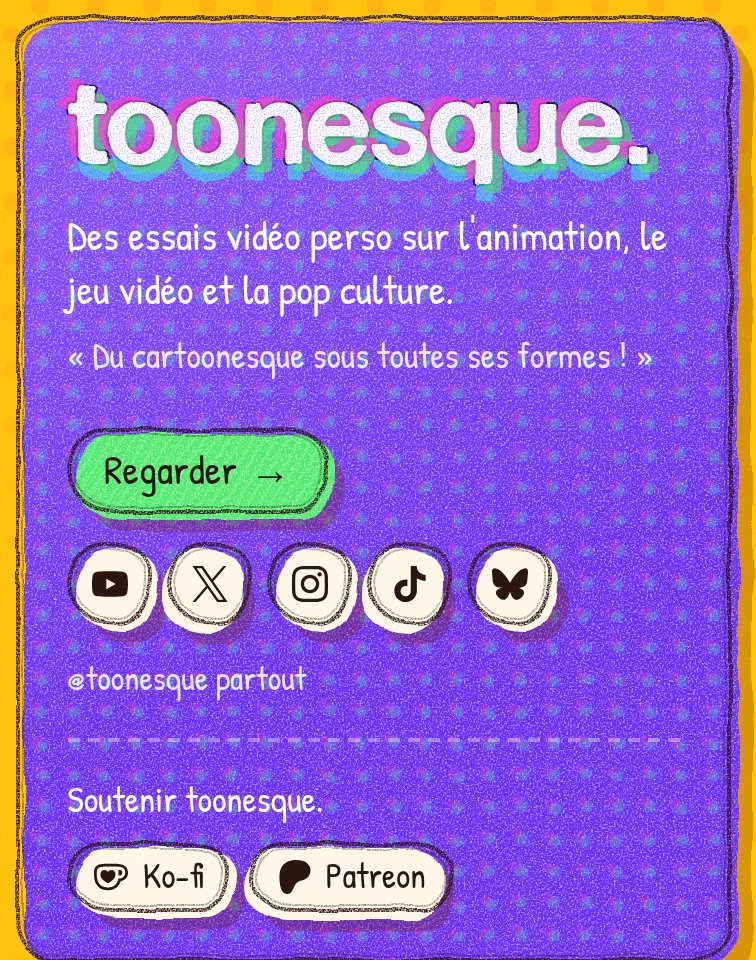
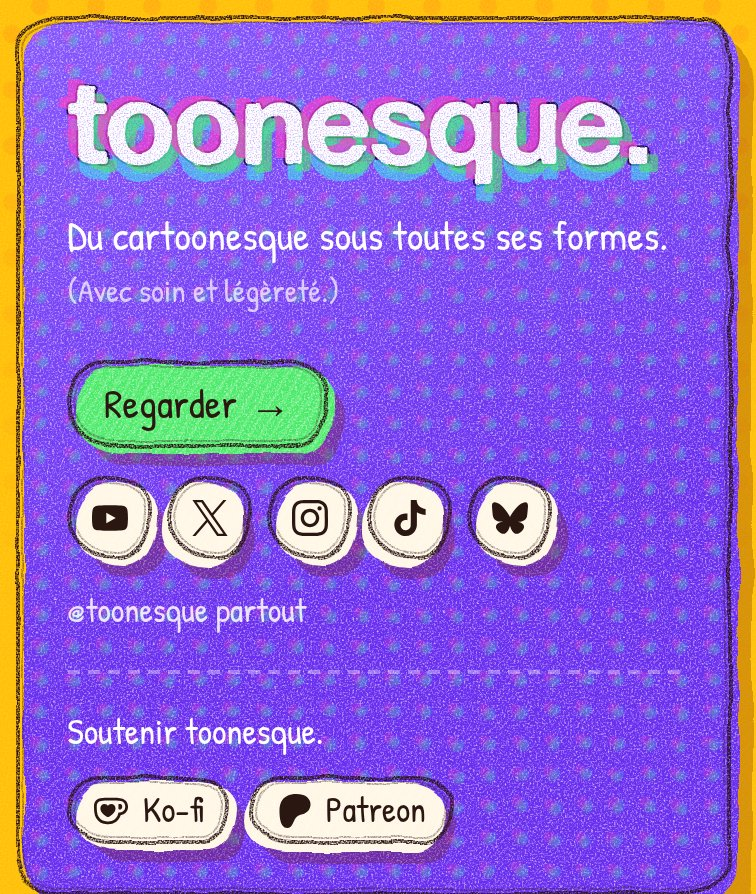
toonesque. : « Du cartoonesque sous toutes ses formes. » + sous-texte « (Avec soin et légèreté.) »
Claude-Session: https://claude.ai/code/session_01LKzVBaJrLPfnWSfihrEFNx

diff --git a/index.html b/index.html
@@ -151,8 +151,8 @@
         <div class="feature sketch">
           <div>
             <p class="feature-title">toonesque.</p>
-            <p class="feature-pitch">Des essais vidéo perso sur l'animation, le jeu vidéo et la pop culture.</p>
-            <p class="feature-quote">« Du cartoonesque sous toutes ses formes&nbsp;! »</p>
+            <p class="feature-pitch">Du cartoonesque sous toutes ses formes.</p>
+            <p class="feature-quote">(Avec soin et légèreté.)</p>
           </div>
           <div class="feature-actions">
             <a class="feature-cta sketch" href="https://www.youtube.com/@toonesque" target="_blank" rel="noopener">Regarder <span class="arrow" aria-hidden="true">→</span></a>

diff --git a/assets/style.css b/assets/style.css
@@ -366,7 +366,7 @@ a.sketch:active { transform: scale(0.97); }
   75% { transform: translate(-1px, 0); }
 }
 .feature-pitch { margin-top: 1.1rem; max-width: 34ch; font-size: 1.28rem; line-height: 1.3; }
-.feature-quote { margin-top: 0.4rem; font-size: 1.12rem; color: rgba(255, 255, 255, 0.85); }
+.feature-quote { margin-top: 0.15rem; font-size: 1rem; color: rgba(255, 255, 255, 0.7); }
 
 .feature-actions {
   display: flex;
